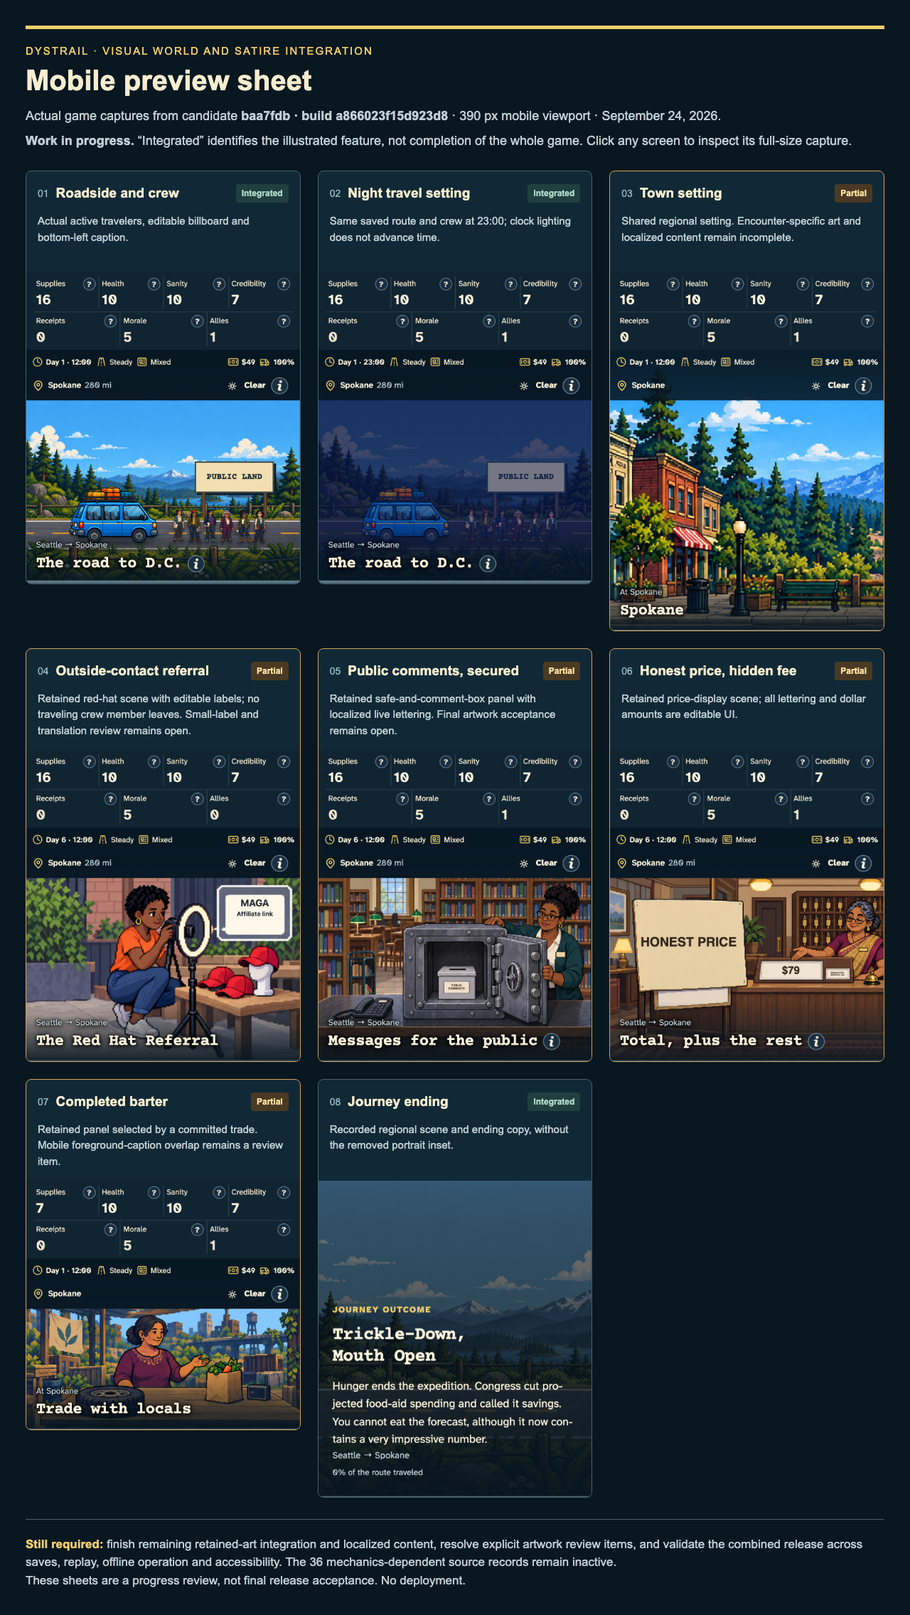
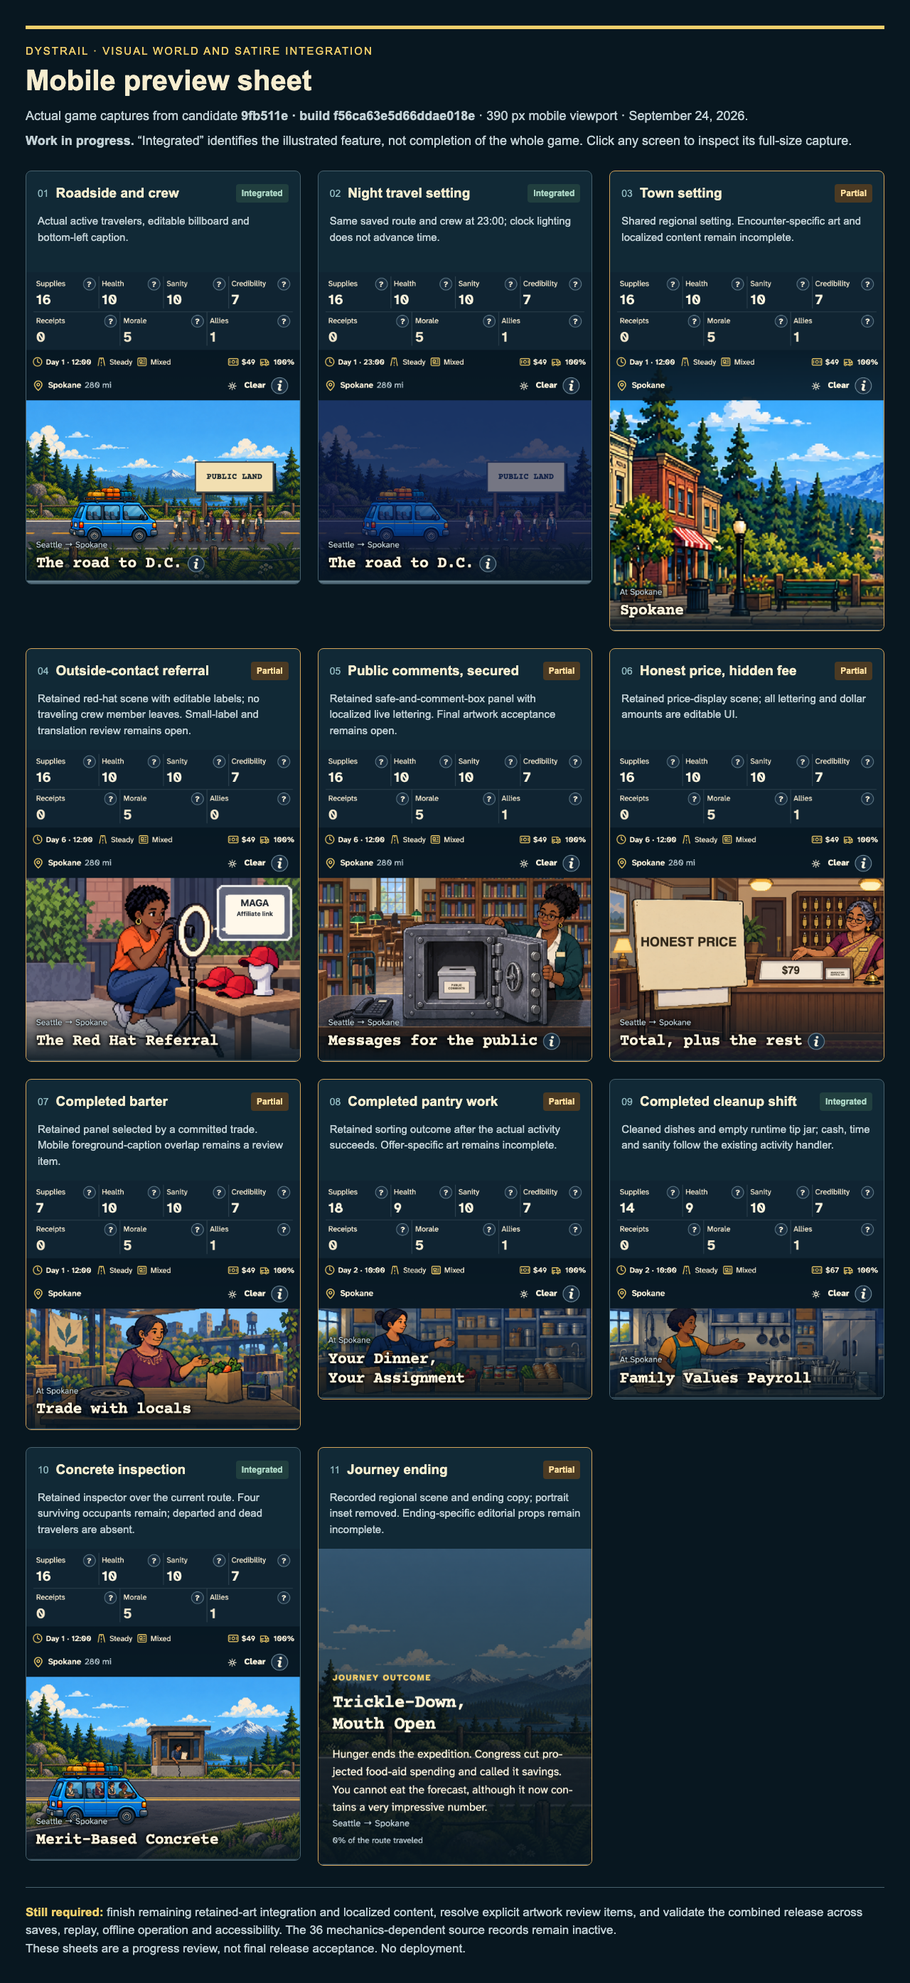
test: refresh desktop and mobile integration previews

diff --git a/review/recovery/current-previews/desktop.html b/review/recovery/current-previews/desktop.html
@@ -1,4 +1,4 @@
 <!doctype html><html lang="en"><meta charset="utf-8"><meta name="viewport" content="width=device-width,initial-scale=1"><title>Dystrail · desktop preview sheet</title><style>
   *{box-sizing:border-box}body{margin:0;background:#081720;color:#f6edcf;font-family:Arial,sans-serif;padding:36px}header{border-top:5px solid #f1cf6b;padding-top:22px;margin-bottom:28px}small{font-size:15px;letter-spacing:2px;text-transform:uppercase;color:#f1cf6b}h1{font-size:40px;margin:10px 0 14px}header p{font-size:18px;line-height:1.5;max-width:1200px;margin:8px 0;color:#c1d0d5}.grid{display:grid;grid-template-columns:repeat(2,minmax(0,1fr));gap:24px;align-items:start}article{border:1px solid #48616d;border-radius:8px;overflow:hidden;background:#112936}article.partial{border-color:#d3a359}.card-head{display:flex;align-items:center;gap:10px;padding:18px 16px 0}.number{color:#91b9c0;font-size:14px}h2{font-size:19px;line-height:1.25;margin:0;flex:1}b{color:#acd6c5;background:#213f3f;font-size:12px;padding:6px 8px;border-radius:4px;white-space:nowrap}.partial b{color:#ffe0a0;background:#4b3a23}article p{font-size:15px;line-height:1.5;color:#c1d0d5;padding:0 16px;min-height:68px}a{display:block}img{display:block;width:100%;height:auto}footer{border-top:1px solid #48616d;margin-top:30px;padding-top:22px;font-size:17px;line-height:1.5;color:#c1d0d5}footer strong{color:#f1cf6b}
   @media(max-width:800px){body{padding:16px}.grid{grid-template-columns:1fr}h1{font-size:30px}}
-  </style><header><small>Dystrail · visual world and satire integration</small><h1>Desktop preview sheet</h1><p>Actual game captures from candidate <strong>baa7fdb · build a866023f15d923d8</strong> · 1440 px desktop viewport · September 24, 2026.</p><p><strong>Work in progress.</strong> “Integrated” identifies the illustrated feature, not completion of the whole game. Click any screen to inspect its full-size capture.</p></header><main class="grid"><article class=""><div class="card-head"><span class="number">01</span><h2>Roadside and crew</h2><b>Integrated</b></div><p>Actual active travelers, editable billboard and bottom-left caption.</p><a href="desktop/road/shot-0.png"><img alt="Roadside and crew: actual desktop game capture" src="desktop/road/shot-0.png"></a></article><article class=""><div class="card-head"><span class="number">02</span><h2>Night travel setting</h2><b>Integrated</b></div><p>Same saved route and crew at 23:00; clock lighting does not advance time.</p><a href="desktop/night/shot-0.png"><img alt="Night travel setting: actual desktop game capture" src="desktop/night/shot-0.png"></a></article><article class="partial"><div class="card-head"><span class="number">03</span><h2>Town setting</h2><b>Partial</b></div><p>Shared regional setting. Encounter-specific art and localized content remain incomplete.</p><a href="desktop/town/shot-0.png"><img alt="Town setting: actual desktop game capture" src="desktop/town/shot-0.png"></a></article><article class="partial"><div class="card-head"><span class="number">04</span><h2>Outside-contact referral</h2><b>Partial</b></div><p>Retained red-hat scene with editable labels; no traveling crew member leaves. Small-label and translation review remains open.</p><a href="desktop/ally/shot-0.png"><img alt="Outside-contact referral: actual desktop game capture" src="desktop/ally/shot-0.png"></a></article><article class="partial"><div class="card-head"><span class="number">05</span><h2>Public comments, secured</h2><b>Partial</b></div><p>Retained safe-and-comment-box panel with localized live lettering. Final artwork acceptance remains open.</p><a href="desktop/safe/shot-0.png"><img alt="Public comments, secured: actual desktop game capture" src="desktop/safe/shot-0.png"></a></article><article class="partial"><div class="card-head"><span class="number">06</span><h2>Honest price, hidden fee</h2><b>Partial</b></div><p>Retained price-display scene; all lettering and dollar amounts are editable UI.</p><a href="desktop/fees/shot-0.png"><img alt="Honest price, hidden fee: actual desktop game capture" src="desktop/fees/shot-0.png"></a></article><article class="partial"><div class="card-head"><span class="number">07</span><h2>Completed barter</h2><b>Partial</b></div><p>Retained panel selected by a committed trade. Mobile foreground-caption overlap remains a review item.</p><a href="desktop/trade/shot-0.png"><img alt="Completed barter: actual desktop game capture" src="desktop/trade/shot-0.png"></a></article><article class=""><div class="card-head"><span class="number">08</span><h2>Journey ending</h2><b>Integrated</b></div><p>Recorded regional scene and ending copy, without the removed portrait inset.</p><a href="desktop/ending/shot-0.png"><img alt="Journey ending: actual desktop game capture" src="desktop/ending/shot-0.png"></a></article></main><footer><strong>Still required:</strong> finish remaining retained-art integration and localized content, resolve explicit artwork review items, and validate the combined release across saves, replay, offline operation and accessibility. The 36 mechanics-dependent source records remain inactive.<br>These sheets are a progress review, not final release acceptance. No deployment.</footer></html>
+  </style><header><small>Dystrail · visual world and satire integration</small><h1>Desktop preview sheet</h1><p>Actual game captures from candidate <strong>9fb511e · build f56ca63e5d66ddae018e</strong> · 1440 px desktop viewport · September 24, 2026.</p><p><strong>Work in progress.</strong> “Integrated” identifies the illustrated feature, not completion of the whole game. Click any screen to inspect its full-size capture.</p></header><main class="grid"><article class=""><div class="card-head"><span class="number">01</span><h2>Roadside and crew</h2><b>Integrated</b></div><p>Actual active travelers, editable billboard and bottom-left caption.</p><a href="desktop/road/shot-0.png"><img alt="Roadside and crew: actual desktop game capture" src="desktop/road/shot-0.png"></a></article><article class=""><div class="card-head"><span class="number">02</span><h2>Night travel setting</h2><b>Integrated</b></div><p>Same saved route and crew at 23:00; clock lighting does not advance time.</p><a href="desktop/night/shot-0.png"><img alt="Night travel setting: actual desktop game capture" src="desktop/night/shot-0.png"></a></article><article class="partial"><div class="card-head"><span class="number">03</span><h2>Town setting</h2><b>Partial</b></div><p>Shared regional setting. Encounter-specific art and localized content remain incomplete.</p><a href="desktop/town/shot-0.png"><img alt="Town setting: actual desktop game capture" src="desktop/town/shot-0.png"></a></article><article class="partial"><div class="card-head"><span class="number">04</span><h2>Outside-contact referral</h2><b>Partial</b></div><p>Retained red-hat scene with editable labels; no traveling crew member leaves. Small-label and translation review remains open.</p><a href="desktop/ally/shot-0.png"><img alt="Outside-contact referral: actual desktop game capture" src="desktop/ally/shot-0.png"></a></article><article class="partial"><div class="card-head"><span class="number">05</span><h2>Public comments, secured</h2><b>Partial</b></div><p>Retained safe-and-comment-box panel with localized live lettering. Final artwork acceptance remains open.</p><a href="desktop/safe/shot-0.png"><img alt="Public comments, secured: actual desktop game capture" src="desktop/safe/shot-0.png"></a></article><article class="partial"><div class="card-head"><span class="number">06</span><h2>Honest price, hidden fee</h2><b>Partial</b></div><p>Retained price-display scene; all lettering and dollar amounts are editable UI.</p><a href="desktop/fees/shot-0.png"><img alt="Honest price, hidden fee: actual desktop game capture" src="desktop/fees/shot-0.png"></a></article><article class="partial"><div class="card-head"><span class="number">07</span><h2>Completed barter</h2><b>Partial</b></div><p>Retained panel selected by a committed trade. Mobile foreground-caption overlap remains a review item.</p><a href="desktop/trade/shot-0.png"><img alt="Completed barter: actual desktop game capture" src="desktop/trade/shot-0.png"></a></article><article class="partial"><div class="card-head"><span class="number">08</span><h2>Completed pantry work</h2><b>Partial</b></div><p>Retained sorting outcome after the actual activity succeeds. Offer-specific art remains incomplete.</p><a href="desktop/pantry/shot-0.png"><img alt="Completed pantry work: actual desktop game capture" src="desktop/pantry/shot-0.png"></a></article><article class=""><div class="card-head"><span class="number">09</span><h2>Completed cleanup shift</h2><b>Integrated</b></div><p>Cleaned dishes and empty runtime tip jar; cash, time and sanity follow the existing activity handler.</p><a href="desktop/cleanup/shot-0.png"><img alt="Completed cleanup shift: actual desktop game capture" src="desktop/cleanup/shot-0.png"></a></article><article class=""><div class="card-head"><span class="number">10</span><h2>Concrete inspection</h2><b>Integrated</b></div><p>Retained inspector over the current route. Four surviving occupants remain; departed and dead travelers are absent.</p><a href="desktop/crossing/shot-0.png"><img alt="Concrete inspection: actual desktop game capture" src="desktop/crossing/shot-0.png"></a></article><article class="partial"><div class="card-head"><span class="number">11</span><h2>Journey ending</h2><b>Partial</b></div><p>Recorded regional scene and ending copy; portrait inset removed. Ending-specific editorial props remain incomplete.</p><a href="desktop/ending/shot-0.png"><img alt="Journey ending: actual desktop game capture" src="desktop/ending/shot-0.png"></a></article></main><footer><strong>Still required:</strong> finish remaining retained-art integration and localized content, resolve explicit artwork review items, and validate the combined release across saves, replay, offline operation and accessibility. The 36 mechanics-dependent source records remain inactive.<br>These sheets are a progress review, not final release acceptance. No deployment.</footer></html>

diff --git a/review/recovery/current-previews/mobile.html b/review/recovery/current-previews/mobile.html
@@ -1,4 +1,4 @@
 <!doctype html><html lang="en"><meta charset="utf-8"><meta name="viewport" content="width=device-width,initial-scale=1"><title>Dystrail · mobile preview sheet</title><style>
   *{box-sizing:border-box}body{margin:0;background:#081720;color:#f6edcf;font-family:Arial,sans-serif;padding:36px}header{border-top:5px solid #f1cf6b;padding-top:22px;margin-bottom:28px}small{font-size:15px;letter-spacing:2px;text-transform:uppercase;color:#f1cf6b}h1{font-size:40px;margin:10px 0 14px}header p{font-size:18px;line-height:1.5;max-width:1200px;margin:8px 0;color:#c1d0d5}.grid{display:grid;grid-template-columns:repeat(3,minmax(0,1fr));gap:24px;align-items:start}article{border:1px solid #48616d;border-radius:8px;overflow:hidden;background:#112936}article.partial{border-color:#d3a359}.card-head{display:flex;align-items:center;gap:10px;padding:18px 16px 0}.number{color:#91b9c0;font-size:14px}h2{font-size:19px;line-height:1.25;margin:0;flex:1}b{color:#acd6c5;background:#213f3f;font-size:12px;padding:6px 8px;border-radius:4px;white-space:nowrap}.partial b{color:#ffe0a0;background:#4b3a23}article p{font-size:15px;line-height:1.5;color:#c1d0d5;padding:0 16px;min-height:68px}a{display:block}img{display:block;width:100%;height:auto}footer{border-top:1px solid #48616d;margin-top:30px;padding-top:22px;font-size:17px;line-height:1.5;color:#c1d0d5}footer strong{color:#f1cf6b}
   @media(max-width:800px){body{padding:16px}.grid{grid-template-columns:1fr}h1{font-size:30px}}
-  </style><header><small>Dystrail · visual world and satire integration</small><h1>Mobile preview sheet</h1><p>Actual game captures from candidate <strong>baa7fdb · build a866023f15d923d8</strong> · 390 px mobile viewport · September 24, 2026.</p><p><strong>Work in progress.</strong> “Integrated” identifies the illustrated feature, not completion of the whole game. Click any screen to inspect its full-size capture.</p></header><main class="grid"><article class=""><div class="card-head"><span class="number">01</span><h2>Roadside and crew</h2><b>Integrated</b></div><p>Actual active travelers, editable billboard and bottom-left caption.</p><a href="mobile/road/shot-0.png"><img alt="Roadside and crew: actual mobile game capture" src="mobile/road/shot-0.png"></a></article><article class=""><div class="card-head"><span class="number">02</span><h2>Night travel setting</h2><b>Integrated</b></div><p>Same saved route and crew at 23:00; clock lighting does not advance time.</p><a href="mobile/night/shot-0.png"><img alt="Night travel setting: actual mobile game capture" src="mobile/night/shot-0.png"></a></article><article class="partial"><div class="card-head"><span class="number">03</span><h2>Town setting</h2><b>Partial</b></div><p>Shared regional setting. Encounter-specific art and localized content remain incomplete.</p><a href="mobile/town/shot-0.png"><img alt="Town setting: actual mobile game capture" src="mobile/town/shot-0.png"></a></article><article class="partial"><div class="card-head"><span class="number">04</span><h2>Outside-contact referral</h2><b>Partial</b></div><p>Retained red-hat scene with editable labels; no traveling crew member leaves. Small-label and translation review remains open.</p><a href="mobile/ally/shot-0.png"><img alt="Outside-contact referral: actual mobile game capture" src="mobile/ally/shot-0.png"></a></article><article class="partial"><div class="card-head"><span class="number">05</span><h2>Public comments, secured</h2><b>Partial</b></div><p>Retained safe-and-comment-box panel with localized live lettering. Final artwork acceptance remains open.</p><a href="mobile/safe/shot-0.png"><img alt="Public comments, secured: actual mobile game capture" src="mobile/safe/shot-0.png"></a></article><article class="partial"><div class="card-head"><span class="number">06</span><h2>Honest price, hidden fee</h2><b>Partial</b></div><p>Retained price-display scene; all lettering and dollar amounts are editable UI.</p><a href="mobile/fees/shot-0.png"><img alt="Honest price, hidden fee: actual mobile game capture" src="mobile/fees/shot-0.png"></a></article><article class="partial"><div class="card-head"><span class="number">07</span><h2>Completed barter</h2><b>Partial</b></div><p>Retained panel selected by a committed trade. Mobile foreground-caption overlap remains a review item.</p><a href="mobile/trade/shot-0.png"><img alt="Completed barter: actual mobile game capture" src="mobile/trade/shot-0.png"></a></article><article class=""><div class="card-head"><span class="number">08</span><h2>Journey ending</h2><b>Integrated</b></div><p>Recorded regional scene and ending copy, without the removed portrait inset.</p><a href="mobile/ending/shot-0.png"><img alt="Journey ending: actual mobile game capture" src="mobile/ending/shot-0.png"></a></article></main><footer><strong>Still required:</strong> finish remaining retained-art integration and localized content, resolve explicit artwork review items, and validate the combined release across saves, replay, offline operation and accessibility. The 36 mechanics-dependent source records remain inactive.<br>These sheets are a progress review, not final release acceptance. No deployment.</footer></html>
+  </style><header><small>Dystrail · visual world and satire integration</small><h1>Mobile preview sheet</h1><p>Actual game captures from candidate <strong>9fb511e · build f56ca63e5d66ddae018e</strong> · 390 px mobile viewport · September 24, 2026.</p><p><strong>Work in progress.</strong> “Integrated” identifies the illustrated feature, not completion of the whole game. Click any screen to inspect its full-size capture.</p></header><main class="grid"><article class=""><div class="card-head"><span class="number">01</span><h2>Roadside and crew</h2><b>Integrated</b></div><p>Actual active travelers, editable billboard and bottom-left caption.</p><a href="mobile/road/shot-0.png"><img alt="Roadside and crew: actual mobile game capture" src="mobile/road/shot-0.png"></a></article><article class=""><div class="card-head"><span class="number">02</span><h2>Night travel setting</h2><b>Integrated</b></div><p>Same saved route and crew at 23:00; clock lighting does not advance time.</p><a href="mobile/night/shot-0.png"><img alt="Night travel setting: actual mobile game capture" src="mobile/night/shot-0.png"></a></article><article class="partial"><div class="card-head"><span class="number">03</span><h2>Town setting</h2><b>Partial</b></div><p>Shared regional setting. Encounter-specific art and localized content remain incomplete.</p><a href="mobile/town/shot-0.png"><img alt="Town setting: actual mobile game capture" src="mobile/town/shot-0.png"></a></article><article class="partial"><div class="card-head"><span class="number">04</span><h2>Outside-contact referral</h2><b>Partial</b></div><p>Retained red-hat scene with editable labels; no traveling crew member leaves. Small-label and translation review remains open.</p><a href="mobile/ally/shot-0.png"><img alt="Outside-contact referral: actual mobile game capture" src="mobile/ally/shot-0.png"></a></article><article class="partial"><div class="card-head"><span class="number">05</span><h2>Public comments, secured</h2><b>Partial</b></div><p>Retained safe-and-comment-box panel with localized live lettering. Final artwork acceptance remains open.</p><a href="mobile/safe/shot-0.png"><img alt="Public comments, secured: actual mobile game capture" src="mobile/safe/shot-0.png"></a></article><article class="partial"><div class="card-head"><span class="number">06</span><h2>Honest price, hidden fee</h2><b>Partial</b></div><p>Retained price-display scene; all lettering and dollar amounts are editable UI.</p><a href="mobile/fees/shot-0.png"><img alt="Honest price, hidden fee: actual mobile game capture" src="mobile/fees/shot-0.png"></a></article><article class="partial"><div class="card-head"><span class="number">07</span><h2>Completed barter</h2><b>Partial</b></div><p>Retained panel selected by a committed trade. Mobile foreground-caption overlap remains a review item.</p><a href="mobile/trade/shot-0.png"><img alt="Completed barter: actual mobile game capture" src="mobile/trade/shot-0.png"></a></article><article class="partial"><div class="card-head"><span class="number">08</span><h2>Completed pantry work</h2><b>Partial</b></div><p>Retained sorting outcome after the actual activity succeeds. Offer-specific art remains incomplete.</p><a href="mobile/pantry/shot-0.png"><img alt="Completed pantry work: actual mobile game capture" src="mobile/pantry/shot-0.png"></a></article><article class=""><div class="card-head"><span class="number">09</span><h2>Completed cleanup shift</h2><b>Integrated</b></div><p>Cleaned dishes and empty runtime tip jar; cash, time and sanity follow the existing activity handler.</p><a href="mobile/cleanup/shot-0.png"><img alt="Completed cleanup shift: actual mobile game capture" src="mobile/cleanup/shot-0.png"></a></article><article class=""><div class="card-head"><span class="number">10</span><h2>Concrete inspection</h2><b>Integrated</b></div><p>Retained inspector over the current route. Four surviving occupants remain; departed and dead travelers are absent.</p><a href="mobile/crossing/shot-0.png"><img alt="Concrete inspection: actual mobile game capture" src="mobile/crossing/shot-0.png"></a></article><article class="partial"><div class="card-head"><span class="number">11</span><h2>Journey ending</h2><b>Partial</b></div><p>Recorded regional scene and ending copy; portrait inset removed. Ending-specific editorial props remain incomplete.</p><a href="mobile/ending/shot-0.png"><img alt="Journey ending: actual mobile game capture" src="mobile/ending/shot-0.png"></a></article></main><footer><strong>Still required:</strong> finish remaining retained-art integration and localized content, resolve explicit artwork review items, and validate the combined release across saves, replay, offline operation and accessibility. The 36 mechanics-dependent source records remain inactive.<br>These sheets are a progress review, not final release acceptance. No deployment.</footer></html>

diff --git a/dystrail-web/tests-e2e/current-previews.spec.ts b/dystrail-web/tests-e2e/current-previews.spec.ts
@@ -4,16 +4,26 @@ import {atTown} from './geography';
 import {mkdirSync,readFileSync} from 'node:fs';
 import {resolve} from 'node:path';
 
-test('capture current integrated visual-world previews',async({page},info)=>{
+test('capture current integrated visual-world previews',async({page,context},info)=>{
  test.setTimeout(90000);
  await page.setViewportSize({width:info.project.name==='mobile'?390:1440,height:1000});
  await page.emulateMedia({reducedMotion:'reduce'});
  const base=await baseline(page);base.seed=42;base.turn_journal_start=null;
  const copy=JSON.parse(readFileSync('i18n/en.json','utf8')).encounter_copy;
  const device=info.project.name==='mobile'?'mobile':'desktop';
- for(const id of ['road','night','town','ally','safe','fees','trade','ending']){
+ for(const id of ['road','night','town','ally','safe','fees','trade','pantry','cleanup','crossing','ending']){
   const s=structuredClone(base);s.clock_minutes=id==='night'?1380:720;
-  if(id==='town'||id==='trade') atTown(s,'Spokane');
+  if(['town','trade','pantry','cleanup'].includes(id)) atTown(s,'Spokane');
+  if(id==='pantry'||id==='cleanup'){
+   const family=id==='pantry'?'ACT-FOODWORK':'ACT-CASHWORK';
+   s.activities={foraged_on:null,worked_at:null,local_word:null};
+   s.visual_content={edition:1,selections:{[`${family}/town/${s.route_services.stop}`]:`${family}-A`},outcomes:{},policy_bulletins:[]};
+  }
+  if(id==='crossing'){
+   s.party.members[1].status='Departed';s.party.members[2].status='Dead';
+   s.crossing_events=[{day:s.day,region:s.region,season:s.season,kind:'checkpoint',permit_used:false,bribe_attempted:false,bribe_success:null,bribe_cost_cents:0,bribe_chance:null,bribe_roll:null,detour_reason:null,detour_taken:false,detour_hours:null,detour_base_supplies_delta:null,detour_extra_supplies_loss:null,terminal_threshold:0,terminal_roll:null,outcome:'passed'}];
+   s.visual_content={edition:1,selections:{},outcomes:{},policy_bulletins:[],crossing_presentations:[{event_index:0,unit:'CROSS-02C-B',permit_receipt:false,acknowledged:false}]};
+  }
   if(id==='ally'){
    s.day=6;s.stats.allies=0;
    s.visual_content={edition:1,selections:{'ALLY-01/departure/6':'ALLY-01-A'},outcomes:{},policy_bulletins:[]};
@@ -37,6 +47,22 @@ test('capture current integrated visual-world previews',async({page},info)=>{
   }
   if(id==='ending')s.ending={type:'collapse',cause:'hunger'};
   await importState(page,s);await page.reload();await waitForLaunch(page);
+  if(id==='road'){
+   await context.setOffline(true);await page.reload();await waitForLaunch(page);
+   await expect(page.locator('.standing-member')).toHaveCount(6);
+   const assets=await page.locator('.standing-member image').evaluateAll(async images=>Promise.all(images.map(async image=>{
+    const href=image.getAttribute('href')!;const response=await fetch(href);return {href,ok:response.ok,bytes:(await response.blob()).size};
+   })));
+   expect(assets).toHaveLength(6);
+   for(const asset of assets){expect(decodeURIComponent(asset.href)).toContain('/cast-v2/');expect(asset.ok).toBe(true);expect(asset.bytes).toBeGreaterThan(1000);}
+   await context.setOffline(false);
+  }
+  if(id==='pantry'||id==='cleanup'){
+   const unit=id==='pantry'?'ACT-FOODWORK-A':'ACT-CASHWORK-A';
+   await page.getByRole('button',{name:copy[unit].choice_0,exact:true}).click();
+   await expect(page.locator('[data-activity-unit]')).toHaveAttribute('data-activity-unit',unit);
+  }
+  if(id==='crossing')await expect(page.locator('.van-occupant')).toHaveCount(4);
   const target=page.locator(id==='ending'?'.result-art':'.world-view');
   await expect(target).toBeVisible();
   const out=resolve('../review/recovery/current-previews',device,id);mkdirSync(out,{recursive:true});
